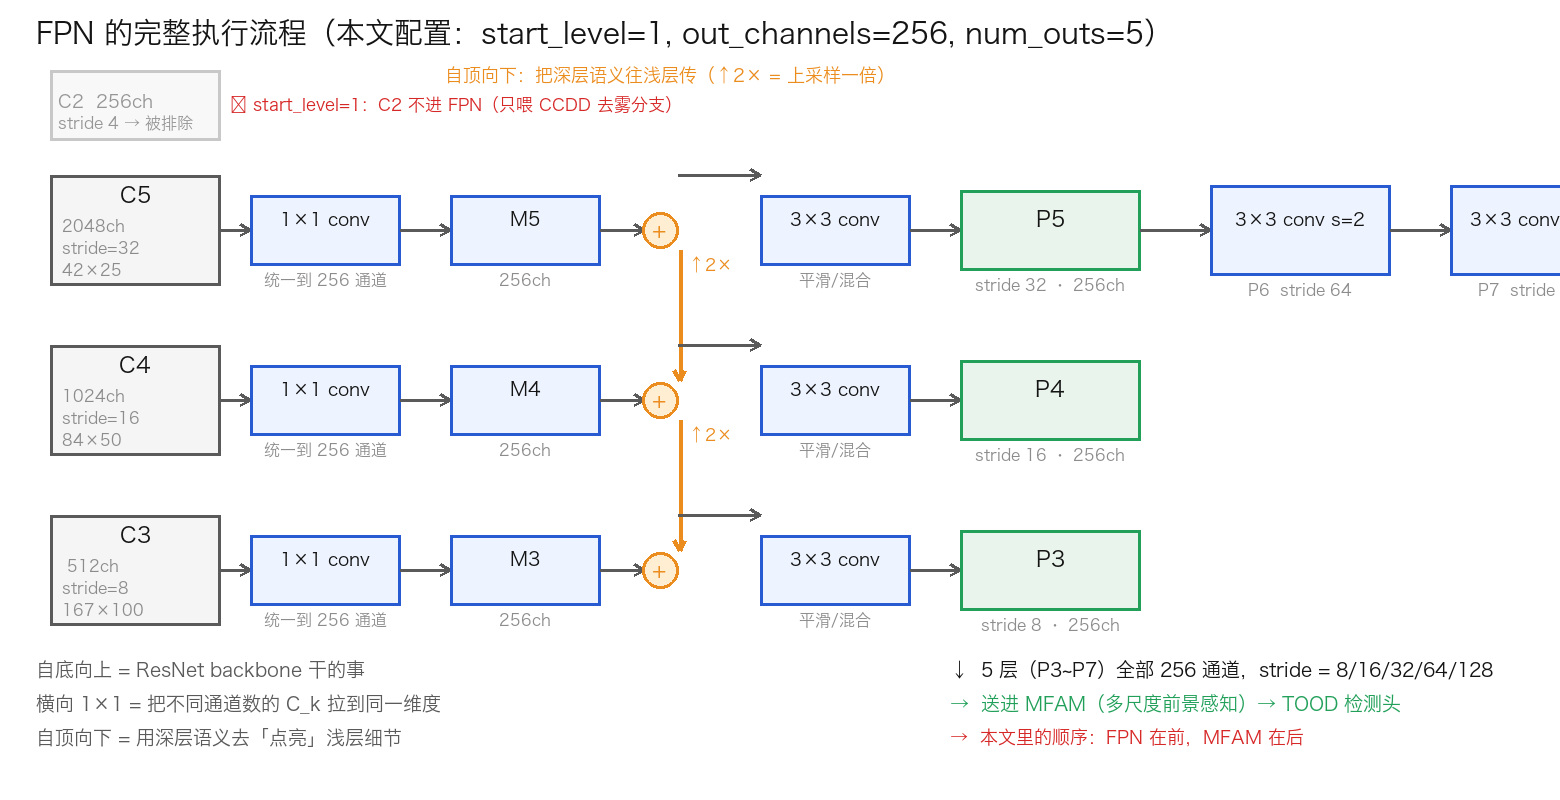
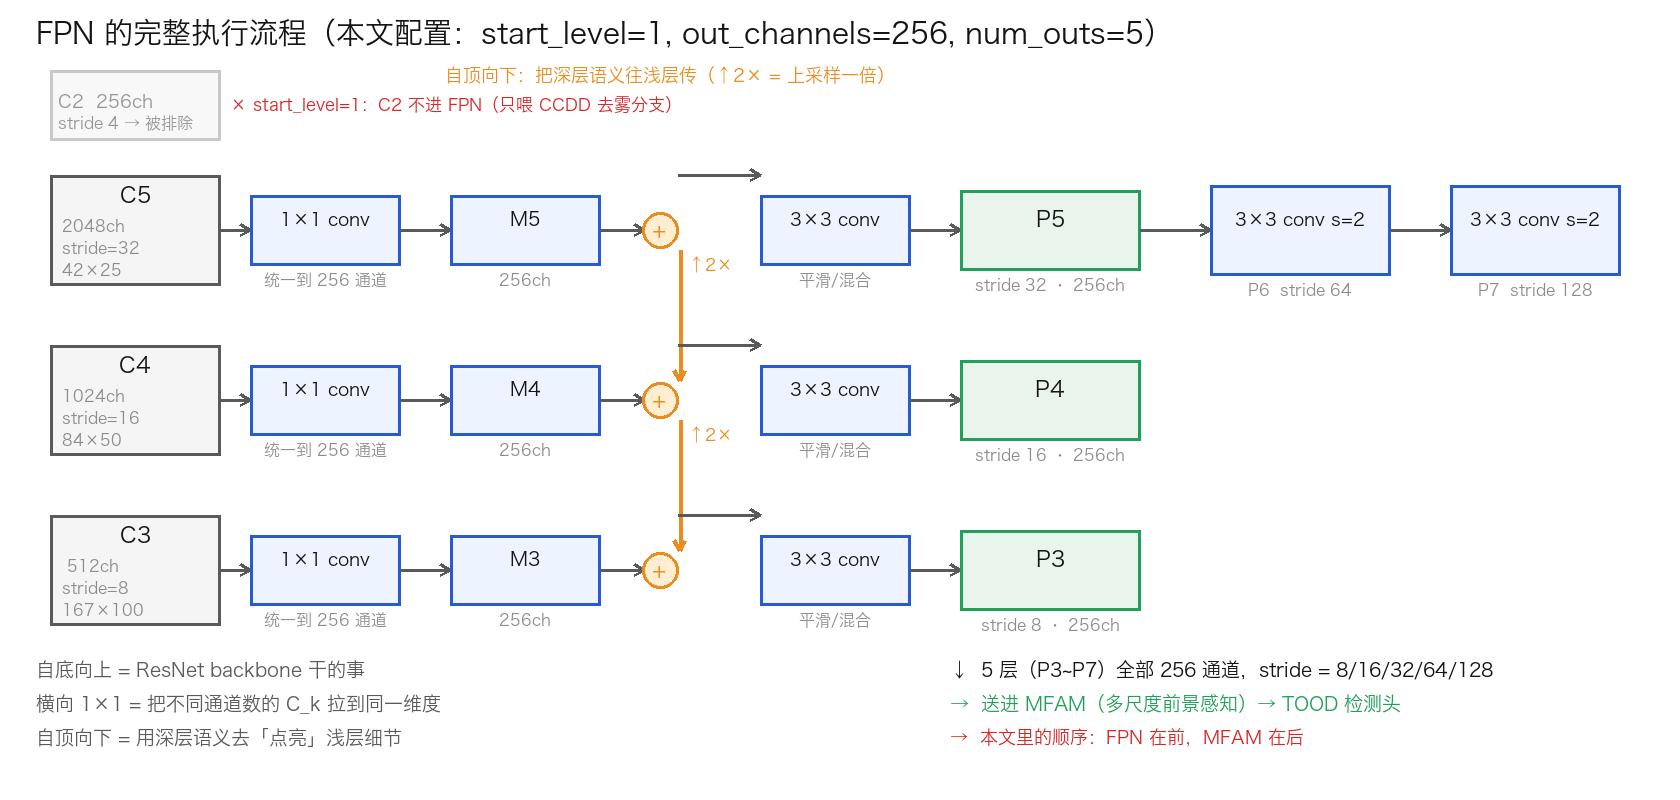
笔记自动同步: 2026-11-05 14:04:22
Affected files:
计算机视觉/CCFA-Net精读/01-公共基础知识/07-FPN特征金字塔.md
计算机视觉/CCFA-Net精读/01-公共基础知识/12-目标检测基础与mAP.md
计算机视觉/CCFA-Net精读/附件/FPN-执行流程.png
计算机视觉/CCFA-Net精读/附件/IoU与正负样本判定.png

diff --git a/计算机视觉/CCFA-Net精读/01-公共基础知识/12-目标检测基础与mAP.md b/计算机视觉/CCFA-Net精读/01-公共基础知识/12-目标检测基础与mAP.md
@@ -115,6 +115,106 @@ $$
 
 ---
 
+## 12.3.1 正样本 / 负样本 / 忽略样本：IoU 阈值在给框"定身份"
+
+![[IoU与正负样本判定.png]]
+
+### 一句话
+
+> **"正样本"不是天生的，是被 IoU 阈值"任命"的。**
+> 一个候选框跟真值框的 IoU 超过阈值 → 它被派去学"这是车" → 它就是**正样本**；
+> 远低于阈值 → 它被派去学"这是背景" → 它就是**负样本**；
+> 卡在中间 → 谁也不像 → **忽略样本**（直接丢掉，不产生梯度）。
+
+### 三种身份
+
+| 身份 | 判定条件（以 RPN 的 pos=0.7 / neg=0.3 为例） | 训练时干什么 | 数量级 |
+|---|---|---|---|
+| **正样本 positive** | IoU 大于等于 0.7 | 回归框 + 分类为前景 | 极少（几百） |
+| **忽略样本 ignore** | 0.3 小于 IoU 小于 0.7 | **既不当正也不当负，不产生梯度** | 中等 |
+| **负样本 negative** | IoU 小于等于 0.3 | 只分类为背景 | 极多（几万） |
+
+> 🎯 **比喻**：这就像**公司招人**。
+> 简历和岗位要求的匹配度（IoU）很高 → 录用（正样本）；
+> 明显不合格 → 扔进人才库当下次替补（负样本）；
+> **有点沾边但说不准** → 先放"待定"区（忽略样本），既不算你的功也不算你的过。
+> "忽略样本"存在的唯一意义就是：**别让模糊案例污染梯度**。
+
+### 为什么一定要留"忽略样本"这一档
+
+假如没有中间档，那些"擦边"的框只会被硬塞进正样本组或者负样本组：
+
+- 塞进**正样本** → 模型被教歪：这些框根本框不准，却要求回归到它身上；
+- 塞进**负样本** → 真目标的边缘被当成背景来惩罚 → **直接压制召回率**。
+
+### 本文仓库里的真实阈值
+
+| 位置 | 配置项 | 值 | 说明 |
+|---|---|---|---|
+| RPN（出候选框） | `pos_iou_thr` / `neg_iou_thr` | 0.7 / 0.3 | 0.3 到 0.7 之间为忽略 |
+| RoI 头（给框分类回归） | `pos_iou_thr` | 0.5 | proposal 已筛过一遍，阈值放宽 |
+| 本文 TOOD | `ATSSAssigner(topk=9)` 换成 `TaskAlignedAssigner(topk=13)` | 不用固定阈值 | 见下方 |
+
+> 📌 **为什么 RoI 头的阈值反而更松（0.5 小于 0.7）？**
+> 因为 proposal 是 RPN **已经用 0.7 筛过一遍**的结果，到了 RoI 头这里框的质量天然更好、任务更简单，
+> 于是可以把门槛降到 0.5，多收一些正样本，换取更高的召回。
+
+### 固定阈值的死穴 —— 这就是 ATSS / TOOD 出场的原因
+
+固定 IoU 阈值有个硬伤：**阈值对"容易的目标"和"困难的目标"本该不一样，但阈值只有一个**。
+
+- 一个**又大又清楚**的车，候选框 IoU 随便都有 0.9，阈值 0.7 毫无压力；
+- 一个**又小又模糊**的车（UAV 图像里的常态），候选框 IoU 能有 0.35 就不错了，
+  **0.7 根本够不着** → 全被判成负样本 → 模型压根不学它 → **小目标召回率直接崩塌**。
+
+**ATSS 的做法**：不给全局固定阈值，而是**给每个真值目标算一个属于它自己的阈值 tau**
+（取该目标所有候选点 IoU 的均值，再各加一点波动）。好目标自动用高标准，难目标自动用低标准。
+
+**TOOD 更进一步**：干脆不用 IoU 定身份，改用 **Task-aligned 分配（TAL）** ——
+按"分类得分乘定位质量"的对齐度排序，取 top-13 当正样本。
+**只要分类自信、框得准，就能入选**，不管 IoU 的绝对值是多少。
+
+> 📌 **这一条是读本文的关键**：
+> 本文用 TOOD 而不是 Faster R-CNN 当检测头，**不只是因为 TOOD 更强**，
+> 更因为**在"无人机 + 小目标 + 雾"这个环境里，"固定 IoU 阈值定身份"这套机制本身就会先崩掉**。
+
+### 小目标为什么天然吃亏
+
+IoU 对**位置偏移和尺寸误差**极其敏感，而小目标的**一个像素偏移**就能让 IoU 掉一大截：
+
+| 框的大小 | 偏移 1 个像素后 IoU 大约掉 |
+|---|---|
+| 200×200 的大框 | 约 1% |
+| 20×20 的小框 | 约 10% |
+| 10×10 的小框 | 约 18% |
+
+→ 同样"稍微没对准"，大框照样过阈值，小框直接掉进忽略区甚至负样本区。
+详见 [[13-两阶段检测与R-CNN家族]] 第 6 节（RoI 量化误差）。
+
+### 小测
+
+1. 一个候选框 IoU = 0.5，在 RPN 里和在 RoI 头里分别算什么身份？为什么？
+2. 如果把"忽略样本"这一档彻底去掉，会发生什么？
+3. 一张图里有 500 个目标，RPN 一共提出 2000 个候选框，正样本大概多少个？正负比大约多少？
+
+<details>
+<summary>👉 小测答案</summary>
+
+**1.** 在 **RPN** 里（阈值 0.7 / 0.3），IoU=0.5 落在中间 → 是**忽略样本**，直接丢掉。
+在 **RoI 头**里（阈值 0.5），IoU=0.5 **刚好到达正样本门槛** → 被当作正样本去分类和回归。
+**同一个框、同一个 IoU，身份却不同** —— 这就是"身份由阈值决定"的最好例证。
+
+**2.** 擦边的框会被硬塞进正样本或负样本。塞进正样本 → 教歪回归；塞进负样本 → 压制召回。
+**中间档存在的意义就是：不确定的案例不参与投票。**
+
+**3.** 500 个目标 → 500 个正样本；剩下约 1500 个候选框几乎全是负样本。
+**正负比大约 1 : 3**，看起来还行？但真实场景里正样本常常只有几十个、负样本几万张，
+比例会到 **1 : 1000** 以上 —— 这正是 Focal Loss 要解决的问题（见 [[14-单阶段检测与样本分配]]）。
+
+</details>
+
+---
+
 ## 12.4 NMS：怎么把重复框去掉
 
 同一个目标可能产生十几个重叠框。**非极大值抑制 (NMS)** 的规则：

diff --git a/计算机视觉/CCFA-Net精读/01-公共基础知识/07-FPN特征金字塔.md b/计算机视觉/CCFA-Net精读/01-公共基础知识/07-FPN特征金字塔.md
@@ -79,6 +79,84 @@ $$
 
 ---
 
+### 7.2.1 逐行拆解：代码里到底怎么算的
+
+![[FPN-执行流程.png]]
+
+**执行顺序（关键：不是"边走边加"，而是"先全部横向，再自顶向下相加，最后统一平滑"）**
+
+1. **横向 1×1**：C3 / C4 / C5 各自过一个 1×1 卷积，通道统一成 256，得到 M3 / M4 / M5。
+2. **自顶向下相加**：从最深的 M5 开始，把 M5 上采样 2 倍加到 M4 上得到 M4'；
+   再把 M4' 上采样 2 倍加到 M3 上得到 M3'。
+3. **统一过 3×3**：M3' / M4' / M5' 各自过一个 3×3 卷积，得到 P3 / P4 / P5。
+4. **补 extra convs**：在 P5 上再叠两个 **stride=2 的 3×3 卷积**，得到 P6 / P7。
+
+> ⚠ **最容易记错的一点**：上采样是**严格 2 倍**（不是 2 倍再加 1）。
+> 例：M5 是 42×25 → 上采样到 84×50 → 正好等于 M4 的尺寸 → 才能逐元素相加。
+> mmdet 里就是直接写 `size=laterals[i-1].shape[2:]`，让它自动对上，不用手算。
+
+**mmdet 官方 FPN 的骨架（伪代码）**
+
+（诚实说明：本机没有安装 mmdet，下面是按官方 `mmdet/models/necks/fpn.py` 的通用写法复述的，
+逻辑与本文仓库的配置能对上；但变量名和参数细节**以你本地实际版本为准**。）
+
+```python
+def forward(self, inputs):
+    # 1) 横向 1×1：C3/C4/C5 -> M3/M4/M5
+    laterals = [conv1x1(inputs[i]) for i, conv1x1 in enumerate(self.lateral_convs)]
+
+    # 2) 自顶向下：从深到浅，把深层上采样后加到浅层
+    for i in range(len(laterals) - 1, 0, -1):
+        up = F.interpolate(laterals[i],
+                           size=laterals[i-1].shape[2:],
+                           mode='nearest')          # 默认 nearest
+        laterals[i-1] = laterals[i-1] + up
+
+    # 3) 统一 3×3 平滑 -> P3/P4/P5
+    outs = [self.fpn_convs[i](laterals[i]) for i in range(len(laterals))]
+
+    # 4) extra convs（在 P5 输出上再叠两层 stride=2 的 3×3）-> P6/P7
+    if self.add_extra_convs == 'on_output':
+        extra_source = outs[-1]
+    for i in range(len(outs), self.num_outs):
+        outs.append(self.fpn_convs[i](extra_source))
+    return tuple(outs)
+```
+
+**参数量手算（out_channels = 256，本文配置）**
+
+| 部件 | 算式 | 参数量 |
+|---|---|---|
+| 横向 1×1 × 3 | (512 + 1024 + 2048)×256 + 3×256 | 约 0.92 M |
+| 3×3 × 3（P3 到 P5） | 3 × (256×256×9 + 256) | 约 1.77 M |
+| extra convs × 2（P6 / P7） | 2 × (256×256×9 + 256) | 约 1.18 M |
+| **合计** | — | **约 3.87 M** |
+
+> 📌 算完你就知道 FPN 有多"轻"：
+> 3.87M 参数，**不到 ResNet-50（25M）的六分之一**。
+> **FPN 不是用来提特征的，是用来"对齐尺度"的** ——
+> 所以工程上你可以放心把它挂在任何 backbone 后面，代价极小。
+
+**本文的 extra convs 为什么是 stride=2**
+
+- `add_extra_convs='on_output'` 且 `num_outs=5` ⇒ 在 P5 上连叠两个 stride=2 的 3×3。
+- 于是 P6 = 21×13（stride 64）、P7 = 11×7（stride 128）。
+- 这两层的意义：**给超大目标准备特征**（近处的车能占很大面积），
+  同时让 TOOD 的 TAL 有更多层可以跨层分配样本。
+
+**⚠ 论文公式 vs mmdet 实现：一个必须知道的细微差别**
+
+| | 自顶向下时加的是哪一层 |
+|---|---|
+| **原始 FPN 论文 (Lin et al., 2017) Fig.3** | 加的是**已经过了 3×3 的 P(k+1)**（最终输出） |
+| **mmdet 的实现** | 加的是**只过了 1×1 的 lateral**（3×3 在最后统一做） |
+
+两者**数学上并不严格等价**（3×3 卷积会重新分配相邻位置的信息）。
+**本文代码跑的是 mmdet 的版本** ——
+所以你在论文里读公式、在代码里读实现时，不要以为它们一字不差，**以代码为准**。
+
+---
+
 ## 7.3 数字账 · 手算一遍（用本文的真实配置）
 
 输入 1333×800，`pad_size_divisor=32` → 实际送进网络的是 **1336×800**（这个坑见 [[02-padding彻底理解]]）。
